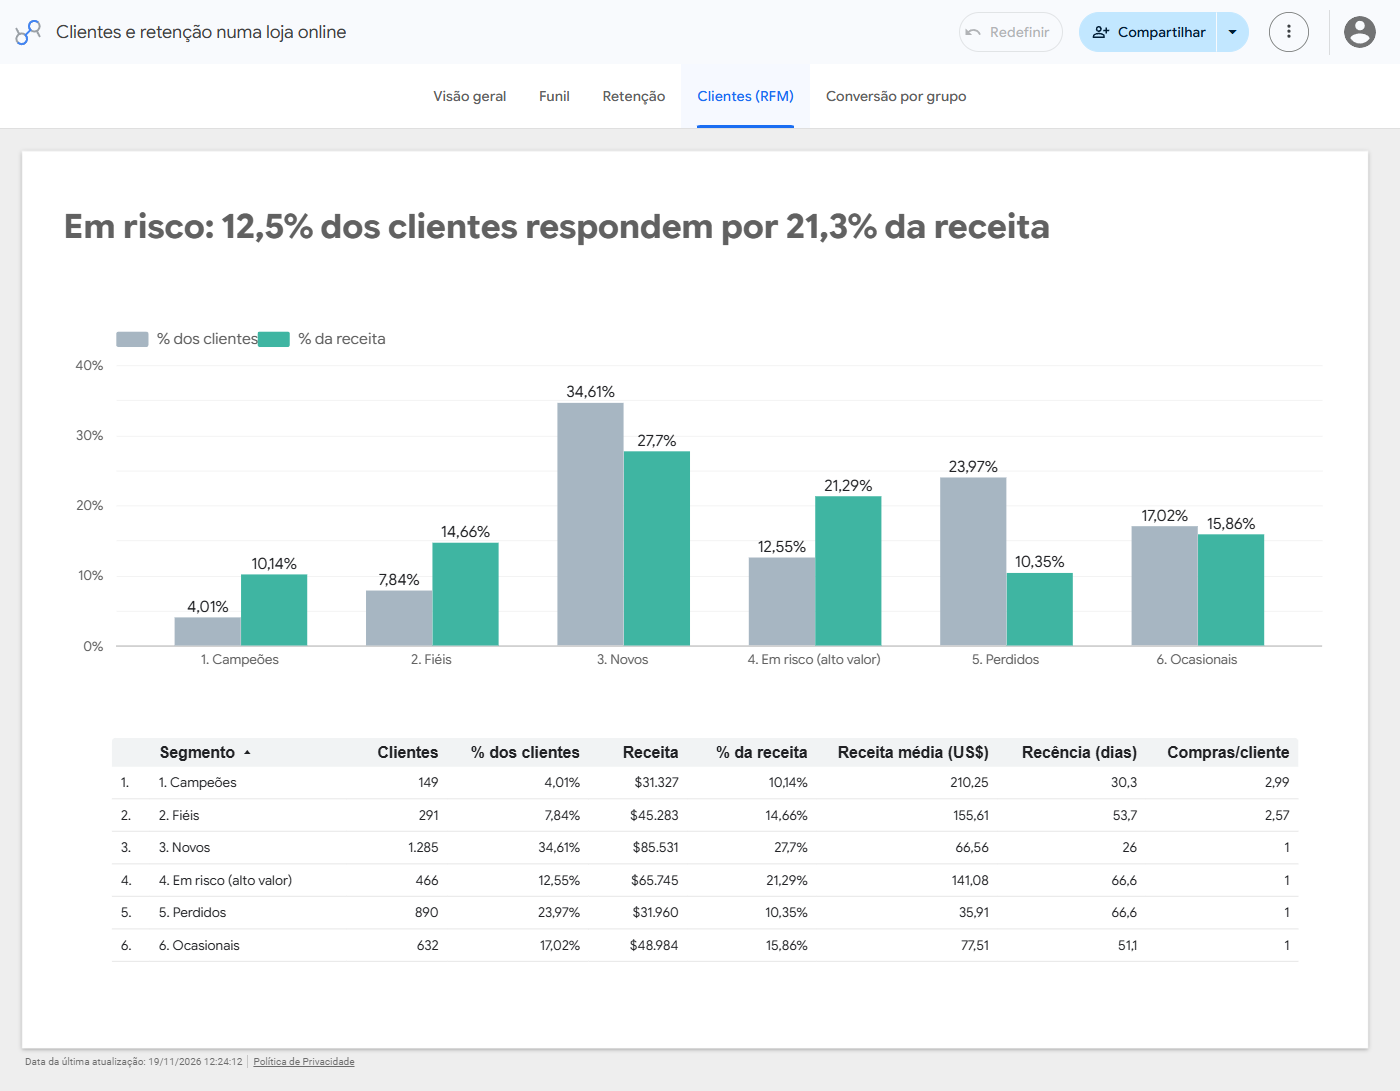
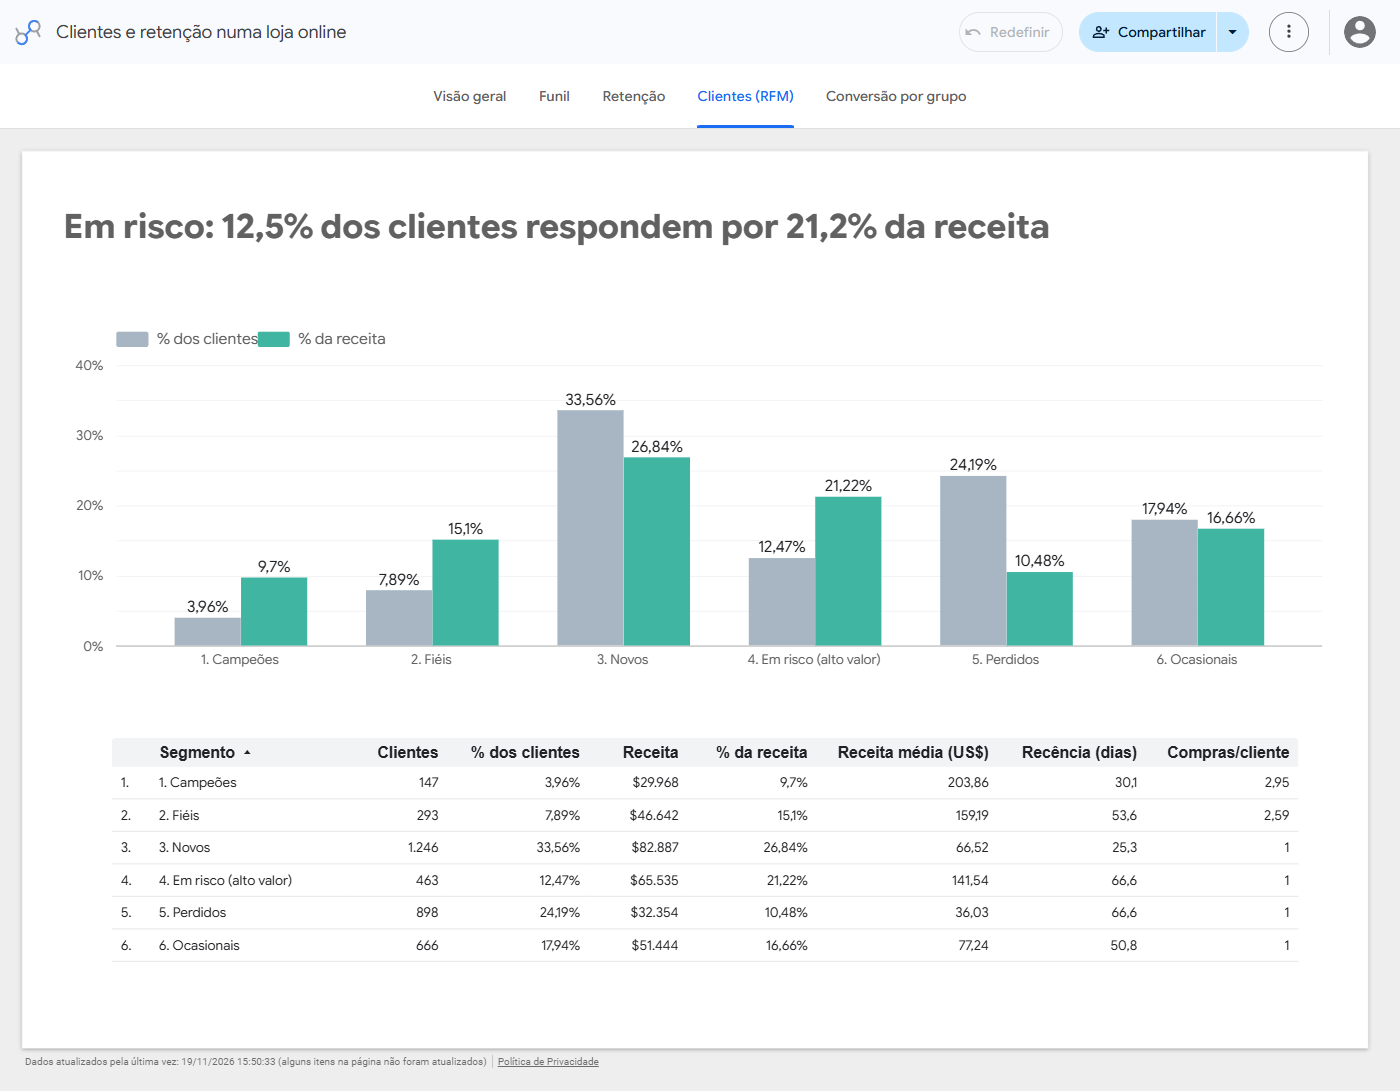
RFM: empates ganham a mesma nota
As notas de recência e valor saíam de NTILE com desempate pelo id do
usuário, então dois clientes que compraram no mesmo dia podiam cair em
segmentos diferentes. Agora a nota vem da posição (RANK), e quem empata
fica junto. "Em risco" passa de 466 para 463 clientes (12,47% dos
clientes, 21,22% da receita). CSV, README, especificação e prints do
painel atualizados; o painel já usa a consulta nova.

diff --git a/README.md b/README.md
@@ -29,7 +29,7 @@ São quatro perguntas menores, uma por análise:
 
 - **Funil:** a unidade é a sessão. Uma sessão conta numa etapa se teve pelo menos um evento dela (`session_start`, `view_item`, `add_to_cart`, `begin_checkout`, `purchase`). O GA4 não garante a ordem dos eventos, então as etapas não são exigidas em sequência.
 - **Coortes:** cada comprador entra na coorte da semana da primeira compra. A retenção é a parte da coorte que comprou de novo 1, 2, 3… semanas depois.
-- **RFM:** só compradores. Recência e valor em quintis; frequência em três faixas (1, 2, 3 ou mais compras), porque 88,1% dos compradores (3.273 de 3.713) compraram uma vez só e quintis de frequência não separariam ninguém ([`resultados/00_perfil.csv`](resultados/00_perfil.csv)). Os segmentos saem de uma tabela de regras no próprio SQL. O empate nos quintis é desfeito pelo id do usuário, para o resultado ser o mesmo a cada execução.
+- **RFM:** só compradores. Recência e valor em quintis; frequência em três faixas (1, 2, 3 ou mais compras), porque 88,1% dos compradores (3.273 de 3.713) compraram uma vez só e quintis de frequência não separariam ninguém ([`resultados/00_perfil.csv`](resultados/00_perfil.csv)). Os segmentos saem de uma tabela de regras no próprio SQL. As notas saem da posição de cada cliente (`RANK`): quem empata, como dois clientes que compraram no mesmo dia, recebe a mesma nota.
 - **Teste:** z de duas proporções para celular contra computador, com intervalo de 95% e h de Cohen; qui-quadrado para os quatro canais legíveis juntos. É uma comparação observacional: ninguém sorteou os grupos, então uma diferença aqui não prova causa. O cálculo tem um teste automatizado contra um caso feito à mão ([`tests/test_teste_proporcoes.py`](tests/test_teste_proporcoes.py)).
 - **Painel:** cada fonte do Data Studio é uma consulta personalizada sobre a tabela pública, com o mesmo SQL deste repositório. Nada fica salvo no projeto do BigQuery, porque no sandbox gratuito tabelas e views expiram em 60 dias. A preparação dos dados (limpeza, rótulos em português, taxas) fica no SQL; o Data Studio cuida da visualização e de métricas do próprio painel, como a taxa de conversão, que é um campo calculado (`SUM(sessoes_com_compra) / SUM(sessoes)`).
 
@@ -59,14 +59,14 @@ Só 440 dos 3.713 compradores compraram mais de uma vez em três meses ([`result
 
 | Segmento | Clientes | % dos clientes | % da receita | Receita média (US$) |
 |---|---:|---:|---:|---:|
-| Campeões | 149 | 4,01% | 10,14% | 210,25 |
-| Fiéis | 291 | 7,84% | 14,66% | 155,61 |
-| Novos | 1.285 | 34,61% | 27,70% | 66,56 |
-| Em risco (alto valor) | 466 | 12,55% | 21,29% | 141,08 |
-| Perdidos | 890 | 23,97% | 10,35% | 35,91 |
-| Ocasionais | 632 | 17,02% | 15,86% | 77,51 |
+| Campeões | 147 | 3,96% | 9,70% | 203,86 |
+| Fiéis | 293 | 7,89% | 15,10% | 159,19 |
+| Novos | 1.246 | 33,56% | 26,84% | 66,52 |
+| Em risco (alto valor) | 463 | 12,47% | 21,22% | 141,54 |
+| Perdidos | 898 | 24,19% | 10,48% | 36,03 |
+| Ocasionais | 666 | 17,94% | 16,66% | 77,24 |
 
-O grupo "Em risco" junta quem gastou muito, comprou uma vez e não volta há 66,6 dias em média. São 12,55% dos clientes e 21,29% da receita. Gastaram em média US$ 141,08 cada, quase quatro vezes o grupo Perdidos (US$ 35,91). Fonte: [`resultados/04_rfm.csv`](resultados/04_rfm.csv).
+O grupo "Em risco" junta quem gastou muito, comprou uma vez e não volta há 66,6 dias em média. São 12,47% dos clientes e 21,22% da receita. Gastaram em média US$ 141,54 cada, quase quatro vezes o grupo Perdidos (US$ 36,03). Fonte: [`resultados/04_rfm.csv`](resultados/04_rfm.csv).
 
 ![Clientes por segmento](docs/img/4-clientes-rfm.png)
 
@@ -81,7 +81,7 @@ Fontes: [`resultados/05_conversao_por_grupo.csv`](resultados/05_conversao_por_gr
 
 ## O que fazer
 
-1. **Reativar primeiro os clientes "Em risco".** São 466 clientes que fizeram uma compra só, de US$ 141,08 em média, e não compram há 66,6 dias. Cenário: se 10% deles voltarem a comprar uma vez, com esse gasto médio, são cerca de US$ 6,6 mil (466 × 10% × US$ 141,08 = US$ 6.574), perto de 2% da receita do período (US$ 308.830). Os 10% são uma premissa para dimensionar a ação, não uma previsão.
+1. **Reativar primeiro os clientes "Em risco".** São 463 clientes que fizeram uma compra só, de US$ 141,54 em média, e não compram há 66,6 dias. Cenário: se 10% deles voltarem a comprar uma vez, com esse gasto médio, são cerca de US$ 6,6 mil (463 × 10% × US$ 141,54 = US$ 6.553), perto de 2% da receita do período (US$ 308.830). Os 10% são uma premissa para dimensionar a ação, não uma previsão.
 2. **Depois, atacar a entrada do funil.** 78,6% das sessões (283.109 de 360.129) não chegam a ver um produto. A segunda maior perda, entre ver o produto e pôr no carrinho, é de 61.832 sessões: a entrada perde mais de quatro vezes isso.
 
 ## O que os dados não permitem concluir

diff --git a/docs/especificacao.md b/docs/especificacao.md
@@ -38,7 +38,7 @@ Ela se divide em quatro perguntas menores, uma por análise:
 ### P3. Segmentação RFM
 - Só compradores (pelo menos um `purchase` com `transaction_id`).
 - **R:** dias entre a última compra e 31/01/2021. **F:** número de compras distintas. **M:** receita total em USD.
-- R e M em notas de 1 a 5 por quintil (`NTILE(5)`); F em três faixas (1, 2, 3 ou mais compras), pela decisão da seção 8. Notas combinadas em segmentos nomeados (por exemplo Campeões, Fiéis, Em risco, Perdidos, Novos) por uma tabela de regras explícita no SQL.
+- R e M em notas de 1 a 5 por quintil, calculadas pela posição (`RANK`), para empates ganharem a mesma nota; F em três faixas (1, 2, 3 ou mais compras), pela decisão da seção 8. Notas combinadas em segmentos nomeados (por exemplo Campeões, Fiéis, Em risco, Perdidos, Novos) por uma tabela de regras explícita no SQL.
 - **Cuidado:** com três meses, muitos compradores têm uma compra só. A Fase 0 mede isso; se a frequência quase não variar, R e M carregam a segmentação, e o README diz isso.
 
 ### P4. Teste de duas proporções
